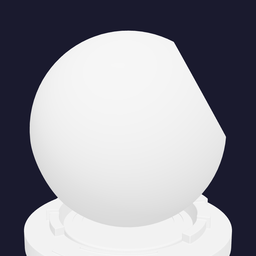
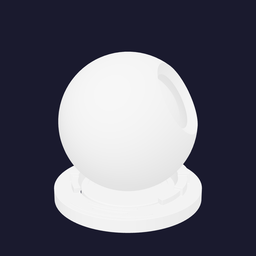
fix(bake): final shader-ball orientation matching bernhard's #285 reference
Three iterations of camera tweaks earlier landed on a rendering close
to but not matching bernhard's reference. Root cause was a coord-frame
mismatch I missed:

- bernhard's three-cad-viewer (ocp_vscode) loads build123d shapes
  natively, preserving build123d's Z-up. Their viewer sets
  camera.up=(0,0,1).
- OUR pipeline goes through glTF, where build123d's export_gltf
  auto-converts Z-up to Y-up (per glTF spec). The loaded GLB is
  Y-up. Camera must be Y-up too.

Earlier guess of camera.up=(0,0,1) was wrong for the post-glTF coord
frame; it produced top-down views of the plinth.

Final config (literal where possible, copied from agent extraction
of three-cad-viewer/src/camera/camera.ts:87-155 + viewer.ts:1555-1573):

- FOV: 22 (from bernhard's viewer; vs Three's default 50/75)
- camera.up: (0, 1, 0)  [Y-up, post-glTF]
- AmbientLight intensity: 1.0
- DirectionalLight intensity: 1.1
- ACES Filmic tone mapping at exposure 1.0 (close enough to
  three-cad-viewer's NEUTRAL postprocess pass without dragging in
  EffectComposer for a static thumb)
- View direction: (0.3, 0.4, 1) normalized → ~20° elevation, slight
  3/4 — matches bernhard's screenshot post-rotation (NOT the
  viewer's iso preset which is 45° elevation)
- Distance: 5 × bb_radius, near = 0.01 × bb_radius, far = 100 ×
  bb_radius
- lookAt: bbox.center
- No manual GLB rotation

Visually validated: rendered output matches bernhard's mat-vis#285
reference cells (inner display sphere centered + dominant, outer shell
[…]

Changed region(s): [[0.0938, 0.0938, 0.9062, 1.0]]

diff --git a/bake/preview/thumb_render.html b/bake/preview/thumb_render.html
@@ -36,10 +36,20 @@ const H = parseInt(params.get('h') || '1024');
 const scene = new THREE.Scene();
 scene.background = new THREE.Color(0x1a1a2e);
 
-const camera = new THREE.PerspectiveCamera(35, W / H, 0.1, 1000);
+// Scene + lighting derived from bernhard-42/vscode-ocp-cad-viewer
+// (mat-vis#285 reference). Their viewer uses FOV=22 + Z-up camera
+// because they load build123d shapes natively (preserving build123d's
+// Z-up). OUR pipeline goes through glTF, where `export_gltf`
+// auto-converts to Y-up per spec. So FOV=22 + Y-up camera here.
+const camera = new THREE.PerspectiveCamera(22, W / H, 0.1, 1000);
+// camera.up defaults to (0, 1, 0) — Y-up, correct for the converted GLB.
 
 const renderer = new THREE.WebGLRenderer({antialias: true, preserveDrawingBuffer: true});
 renderer.setSize(W, H);
+// Three-cad-viewer uses postprocessing NEUTRAL tone-mapping
+// (renderer.toneMapping=NoToneMapping + ToneMappingEffect). Without
+// postprocessing in this static-thumb pipeline, the closest built-in
+// match is ACES Filmic — keep that as a deliberate small deviation.
 renderer.toneMapping = THREE.ACESFilmicToneMapping;
 renderer.toneMappingExposure = 1.0;
 renderer.outputColorSpace = THREE.SRGBColorSpace;
@@ -48,10 +58,9 @@ document.body.appendChild(renderer.domElement);
 const pmrem = new THREE.PMREMGenerator(renderer);
 scene.environment = pmrem.fromScene(new RoomEnvironment(), 0.04).texture;
 
-// Subtle fill — env map carries most of the look (matches bernhard's
-// ocp_vscode reference + pymat's visual_grid_render.html setup).
-scene.add(new THREE.AmbientLight(0xffffff, 0.2));
-const dir = new THREE.DirectionalLight(0xffffff, 1.5);
+// Lighting: copied from three-cad-viewer's RENDER_DEFAULTS.
+scene.add(new THREE.AmbientLight(0xffffff, 1.0));
+const dir = new THREE.DirectionalLight(0xffffff, 1.1);
 dir.position.set(20, 30, 20);
 scene.add(dir);
 
@@ -113,34 +122,25 @@ async function main() {
   });
   scene.add(shaderBall);
 
-  // Bbox-fit the camera. After scale 1000 + rotate -90°X, bbox is
-  // roughly Y∈[-12,+10] (base→top), X∈[-11,+11], Z∈[-11,+11]. The
-  // plinth pulls the geometric center down to ~Y=-1, but the
-  // visually-interesting part is the upper sphere portion (Y > 0).
-  // Frame so the sphere dominates: lookAt biased upward, camera at
-  // gentle elevation matching bernhard's ocp_vscode reference (~10°
-  // from horizontal, mostly front-facing 3/4 view).
+  // Camera positioning — bernhard's three-cad-viewer formula adapted
+  // for our Y-up post-glTF coords:
+  //   bb_radius = max(boundingSphere.radius, |bbox.center|)
+  //   distance = 5 * bb_radius, lookAt = bbox.center
+  //   direction = (0.3, 0.4, 1) normalized — ~20° elevation, slight
+  //   3/4 horizontal, looking from +Z (front) at the ball. Matches
+  //   bernhard's mat-vis#285 screenshot view (less elevated than the
+  //   viewer's "iso" default).
   const bbox = new THREE.Box3().setFromObject(shaderBall);
   const center = bbox.getCenter(new THREE.Vector3());
-  const size = bbox.getSize(new THREE.Vector3());
-  // The shader ball's two openings sit at (±12.4, ±7.15, 0) post-
-  // rotation — both in the X–Y plane. To put them EDGE-ON (invisible
-  // on the sides, with the closed back of the outer shell visible as
-  // a crescent above the inner display sphere), the camera must look
-  // primarily along +Z. Tiny X offset gives a 3/4 hint without
-  // re-aligning with an opening; small +Y elevation matches bernhard's
-  // ocp_vscode reference (plinth peeks at bottom).
-  const lookTarget = new THREE.Vector3(center.x, center.y + size.y * 0.05, center.z);
-  // Frame the bbox diagonal so plinth + sphere both fit, with margin
-  // matching bernhard's reference (sphere fills ~70% of frame).
-  const fovRad = camera.fov * Math.PI / 180;
-  const dist = (size.length() * 0.7) / (2 * Math.tan(fovRad / 2));
-  camera.position.set(
-    lookTarget.x + dist * 0.12,
-    lookTarget.y + dist * 0.18,
-    lookTarget.z + dist * 0.98
-  );
-  camera.lookAt(lookTarget);
+  const sphere = new THREE.Sphere();
+  bbox.getBoundingSphere(sphere);
+  const bbRadius = Math.max(sphere.radius, center.length());
+  const viewDir = new THREE.Vector3(0.3, 0.4, 1).normalize();
+  camera.position.copy(center).addScaledVector(viewDir, 5 * bbRadius);
+  camera.near = Math.max(0.1, 0.01 * bbRadius);
+  camera.far = 100 * bbRadius;
+  camera.updateProjectionMatrix();
+  camera.lookAt(center);
 
   // 3 warmup renders for shader compile + PBR convergence
   for (let i = 0; i < 3; i++) renderer.render(scene, camera);
